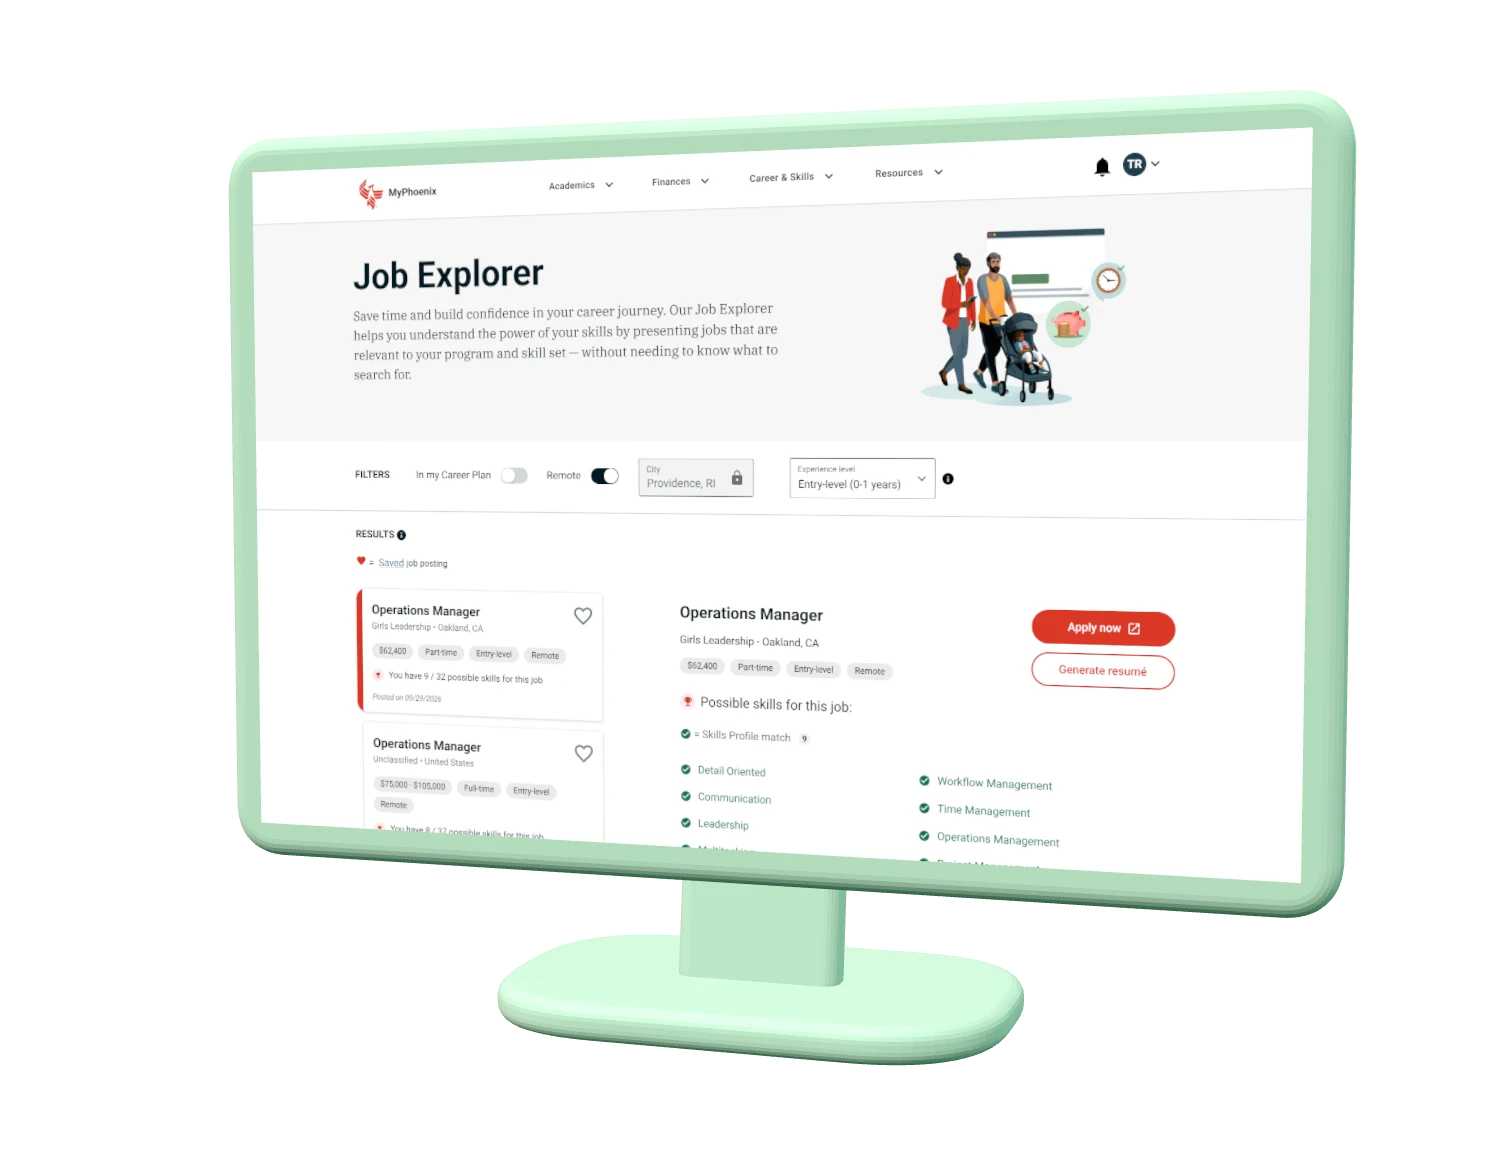
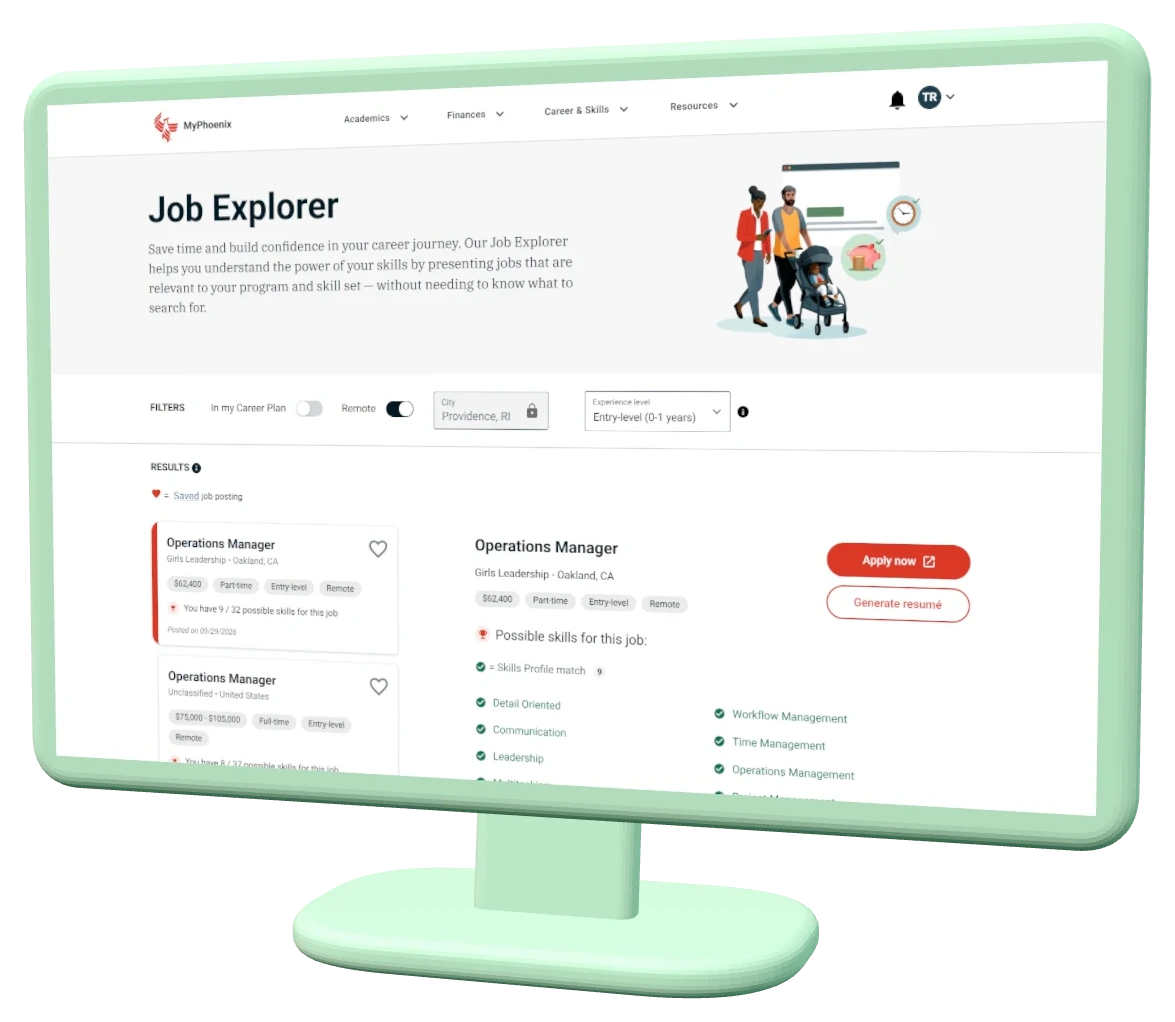
Give the device screenshots the room they were missing
The device renders carry a wide transparent margin, so the hero was sizing a
frame rather than a device and the screenshot inside it came out small. Crop
each render to the device, then size the box for what is now in it: on a
desktop the story hero devices land about half again as large, and a portrait
kiosk gets its own deeper band on phones instead of a laptop's.

In the 3D work space the camera backed off by aspect alone, which framed the
whole row of devices and left a phone mostly empty green. Fit the focused
device across the width instead, and give the stage a shorter frame on phones.
Desktop framing is unchanged: the distance floor is what binds there.

Changed region(s): [[0.0, 0.0, 0.9804, 1.0], [0.674, 0.5157, 0.8272, 0.6067]]

diff --git a/css/story-hero2.css b/css/story-hero2.css
@@ -28,18 +28,22 @@
 
 /* The device is sized by a box it has to fit inside, not by a crop. A tall
    kiosk hits the height limit, a wide laptop hits the width limit, and both
-   stay clear of the copy at any width. */
+   stay clear of the copy at any width.
+
+   The art is cropped to the device, so these numbers are the device's own size
+   rather than the size of a frame it floats inside. The height limit is what a
+   portrait kiosk hits; a laptop or monitor hits the width. */
 .shero2__device {
   position: absolute;
   z-index: 2;
   top: 50%;
-  right: clamp(16px, 6%, 160px);
+  right: clamp(8px, 2.5%, 90px);
   transform: translateY(-50%);
-  width: min(44%, 720px);
-  height: 76%;
+  width: min(48%, 820px);
+  height: 90%;
   object-fit: contain;
   object-position: center;
-  filter: drop-shadow(0 38px 50px rgba(1, 26, 17, .45));
+  filter: drop-shadow(0 44px 58px rgba(1, 26, 17, .45));
 }
 
 /* Floating marks, placed rather than baked in, so they can thin out on small
@@ -103,7 +107,7 @@
 
 @media (max-width: 1199px) {
   .shero2__copy { width: min(52%, 520px); }
-  .shero2__device { width: min(42%, 560px); height: 70%; }
+  .shero2__device { width: min(48%, 620px); height: 88%; }
 }
 
 /* Stacked: the device gets its own band, the copy sits under it. Because the
@@ -114,7 +118,13 @@
   .shero2 {
     display: flex;
     flex-direction: column;
-    --band-h: clamp(300px, 50vw, 420px);
+    --band-h: clamp(360px, 92vw, 540px);
+  }
+
+  /* A kiosk is portrait, so the same band gives it half the device a laptop
+     gets. Tall devices get a taller band rather than a smaller device. */
+  .shero2--kiosk {
+    --band-h: clamp(440px, 118vw, 700px);
   }
 
   .shero2__band {
@@ -129,8 +139,10 @@
     bottom: auto;
     right: 50%;
     transform: translateX(50%);
-    width: min(76%, 420px);
-    height: calc(var(--band-h) - var(--header-h) + 8px);
+    width: min(94%, 480px);
+    /* short of the band's own edge, so the drop shadow lands inside the band
+       instead of being cut off by the copy block painted under it */
+    height: calc(var(--band-h) - var(--header-h) - 20px);
     filter: drop-shadow(0 18px 26px rgba(1, 26, 17, .4));
   }
 

diff --git a/js/workspace.js b/js/workspace.js
@@ -273,8 +273,13 @@ async function startScene(stories, ui) {
     renderer.setSize(w, h, false);
     const a = w / h;
     camera.aspect = a;
-    // Pull the camera back on narrow screens so the devices still fit.
-    const dist = Math.min(20, 9.5 * Math.max(1, 1.5 / a));
+    /* A portrait canvas has to pull the camera back, but only as far as the
+       focused device's own width needs — the old rule backed off by aspect
+       alone, which framed the whole row and left a phone mostly empty space.
+       HALF_W is the world half-width worth keeping in frame; at desktop
+       aspects the 9.5 floor is what binds, so wide screens are unchanged. */
+    const HALF_W = 2.1;
+    const dist = Math.min(20, Math.max(9.5, HALF_W / (a * Math.tan(camera.fov * Math.PI / 360))));
     camera.position.set(0, 0.55, dist);
     camera.lookAt(0, -0.45, 0);
     camera.updateProjectionMatrix();

diff --git a/js/story-hero2.js b/js/story-hero2.js
@@ -18,8 +18,13 @@
 
     document.body.classList.add("shero2-page");
 
+    // Which device this story is shown on decides how much height the stacked
+    // layout has to give it: a portrait kiosk needs a deeper band than a laptop.
+    const story = (window.SITE?.stories || []).find((s) => s.slug === slug);
+    const device = story?.device || "laptop";
+
     const blade = document.createElement("section");
-    blade.className = "shero2";
+    blade.className = "shero2 shero2--" + device;
     blade.innerHTML =
       '<div class="shero2__shapes" aria-hidden="true">' +
         MARKS.map(([c, f]) => '<img class="' + c + '" src="assets/clay/' + f + '.webp" alt="" loading="lazy" decoding="async">').join("") +

diff --git a/css/styles.css b/css/styles.css
@@ -1034,6 +1034,14 @@ body.menu-open {
   fill: currentColor;
 }
 
+/* A phone's frame is portrait and the scene fits the device across the width,
+   so a full-height stage only adds empty room above and below it. */
+@media (max-width: 699px) {
+  .work--3d {
+    height: clamp(560px, 82vh, 760px);
+  }
+}
+
 /* Gate */
 .gate {
   position: relative;
